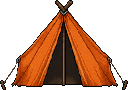
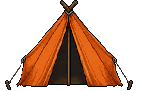
A calmer wall in three zones, a backdrop that changes as you climb, one prop style
Wall
- Rebuilt from much larger slabs of one natural-rock texture, pulled
  toward its average colour and dimmed, so climbers, rope, holds and
  bolts stand out instead of being lost in a busy boulder pattern.
- Three zones that meet slab by slab: warm mossy granite, bare pale
  granite, then cold dark rock with snow on its ledges.

Backdrop
- One tall painting replaces the fixed valley and treeline: forest and
  lake at base camp, the snowy range higher up, then a sea of clouds
  and a deep blue sky near the summit. The view pans up it as the team
  climbs.

Props and camp
- Crate, pot, lantern and rope coil repainted in the climbers' style.
- The tent is pitched and struck with a painted animation (a heap of
  canvas and poles rising into the tent) instead of popping in as
  rectangular pieces.
- Taller camp signs stand clear of the tent; the earth under the
  meadow fades to dark instead of a flat slab.

Pixel sizes
- The map shows at a whole number of device pixels where one fits, and
  its backdrop is the painting at whole pixels, dimmed, not a blur.
- The title painting and its animation layers are sized the same way.
- The question panel's picture is the mountain being climbed, cut from
  the map.

Claude-Session: https://claude.ai/code/session_018rpfmEX5HfmNYP77j3hC6K

Changed region(s): [[0.0, 0.0, 1.0, 1.0]]

diff --git a/js/scene.js b/js/scene.js
@@ -146,25 +146,31 @@ function drawCloud(g,x,y,s,seed){
 
 /* ---------- generated art (PixelLab): the valley backdrop, a near treeline and two granite textures ----------
    Each loads in the background; until it has, the painted version above (and the painted rock below) stands in. */
-const ART={},CLOUD_N=3;
+const ART={},CLOUD_N=3,TENT_UP=9;
 (function loadArt(){
   const pixels=im=>{const [,g]=mk(im.width,im.height);g.drawImage(im,0,0);return {w:im.width,h:im.height,d:g.getImageData(0,0,im.width,im.height).data};},
     rgb=(p,x,y)=>{const i=(y*p.w+x)*4;return `rgb(${p.d[i]},${p.d[i+1]},${p.d[i+2]})`;},
     load=(src,fn)=>{const im=new Image();im.onload=()=>fn(im);im.src=src;};
-  load(asset("assets/valley.png"),im=>{ART.sky=rgb(pixels(im),im.width>>1,0);ART.valley=im;});
-  load(asset("assets/pines.png"),im=>{ART.pineBase=rgb(pixels(im),im.width>>1,im.height-1);ART.pines=im;});
+  load(asset("assets/valley.png"),im=>{const p=pixels(im);ART.sky=rgb(p,im.width>>1,0);ART.valleyFoot=rgb(p,4,im.height-1);ART.valley=im;});
   // high on the mountain the same art turns wintry: moss and grass (green-dominant pixels) become snow by brightness,
   // and the rock is cooled halfway to a blue-grey of its own brightness
   const wintry=d=>{for(let i=0;i<d.length;i+=4){if(!d[i+3])continue;const r=d[i],gr=d[i+1],b=d[i+2],l=r*.3+gr*.59+b*.11;
     if(gr>r+8&&gr>b+8){const s=l>110?[242,245,247]:l>70?[191,210,230]:[142,170,204];d[i]=s[0];d[i+1]=s[1];d[i+2]=s[2];}
     else{d[i]=R0(lerp(r,l*.86,.5));d[i+1]=R0(lerp(gr,l*.94,.5));d[i+2]=Math.min(255,R0(lerp(b,l*1.12,.5)));}}};
-  // one granite texture for the whole wall: mossy low down, its wintry copy high up; rock chunks painted before it
-  // arrived repaint with it
-  // three granite textures (from one generation, so they match), each with its wintry copy; the wall is painted
-  // once all three are in, and chunks painted before that repaint with them
-  ART.rocks=[];let rockLeft=3;
-  ["cliff-low","cliff-b","cliff-c"].forEach((n,i)=>load(asset(`assets/${n}.png`),im=>{const hi=pixels(im);wintry(hi.d);ART.rocks[i]={lo:pixels(im),hi};
-    if(!--rockLeft){ART.rockLo=ART.rocks[0].lo;ART.rockHi=ART.rocks[0].hi;FX.chunks.clear();}}));
+  // the wall's three kinds of rock, bottom to top, all from one painted texture so they share their shapes: warm
+  // mossy granite as painted; bare pale granite (the same, greyed and lightened, its moss gone to lichen); and its
+  // wintry copy, cold and dark with snow where the moss was. Each carries its average colour, which the wall is
+  // pulled toward a little so the climbers stand out against it
+  load(asset("assets/rock-low.png"),im=>{const lo=pixels(im),mid=pixels(im),hi=pixels(im);
+    for(let i=0,d=mid.d;i<d.length;i+=4){const r=d[i],g=d[i+1],b=d[i+2],l=r*.3+g*.59+b*.11,moss=g>r+6&&g>b+6,v=moss?l*.9+50:l*.92+38;
+      d[i]=Math.min(255,v*1.02);d[i+1]=Math.min(255,v);d[i+2]=Math.min(255,v*.95);}
+    wintry(hi.d);
+    {const d=hi.d,W=hi.w,H=hi.h,src=lo.d,L=k=>src[k]*.3+src[k+1]*.59+src[k+2]*.11;
+      for(let y=2;y<H-3;y++)for(let x=0;x<W;x++){const k=(y*W+x)*4;
+        if(L(k)>95&&L(k-W*4)<62){const n=2+((x*7+y*3)%3);for(let j=0;j<n;j++){const q=k+j*W*4;if(L(q)<62)break;
+          const c=j<n-1?[242,245,247]:[191,210,230];d[q]=c[0];d[q+1]=c[1];d[q+2]=c[2];}}}}
+    for(const p of [lo,mid,hi]){let r=0,g=0,b=0;const N=p.w*p.h;for(let k=0;k<N*4;k+=4){r+=p.d[k];g+=p.d[k+1];b+=p.d[k+2];}p.mean=[r/N,g/N,b/N];}
+    ART.zones=[lo,mid,hi];ART.rockLo=lo;FX.chunks.clear();});
   // the walkable surface of a platform image: the first opaque row down its middle
   const surface=p=>{const x=p.w>>1;for(let y=0;y<p.h;y++)if(p.d[(y*p.w+x)*4+3]>40)return y;return 0;};
   // camp ledges: Camp I as drawn; Camp II with its grass and moss turned to snow and its rock cooled to blue-grey
@@ -184,6 +190,9 @@ const ART={},CLOUD_N=3;
     const canvasOf=()=>{const [c,g]=mk(p.w,p.h),id=g.createImageData(p.w,p.h);id.data.set(d);g.putImageData(id,0,0);return c;};
     ART.ledge=canvasOf();wintry(d);ART.ledgeSnow=canvasOf();FX.camps={};});
   load(asset("assets/tent.png"),im=>{ART.tent=im;FX.camps={};FX.base=null;});
+  // the tent going up: eight frames from a flat heap of canvas and poles to (the ninth) the pitched tent above,
+  // all on the pitched tent's own canvas
+  {const fr=[];let left=TENT_UP-1;for(let n=0;n<TENT_UP-1;n++)load(asset(`assets/tent/${n}.png`),im=>{fr[n]=im;if(!--left)ART.tentUp=fr;});}
   // two tall trees (a broad old spruce and a slender pine), well over twice a climber's height
   ART.trees=[];["tree-a","tree-b"].forEach((n,t)=>load(asset(`assets/${n}.png`),im=>{ART.trees[t]=im;FX.base=null;}));
   // camp props: a coil of rope, a cooking pot, a lantern and a supply crate
@@ -198,17 +207,17 @@ const ART={},CLOUD_N=3;
   load(asset("assets/ground.png"),im=>{const p=pixels(im);ART.groundTop=surface(p);let y=p.h-1;
     const full=y=>{for(let x=0;x<p.w;x++)if(p.d[(y*p.w+x)*4+3]<250)return false;return true;};
     while(y>ART.groundTop&&!full(y))y--;ART.ground=im;ART.soilAt=y;ART.soil=rgb(p,p.w>>1,y);FX.base=null;});})();
-const valleyY=(h,climb)=>R0(h-ART.valley.height+climb*.05);
+// the backdrop is one tall painting: the valley at the bottom, a sea of clouds above it and the high sky above that.
+// At base camp its foot stands just under the meadow, in the open part of the screen; as the team climbs the view
+// pans up it, through the clouds, so that at the summit its top is at the top of the screen
+function valleyY(h,climb){const A=FX.area,ab=A?R0((A.y+A.h)/FX.px):h,V=ART.valley.height,foot=ab-30,span=-TOPY+80;
+  return R0(Math.min(0,foot-V+clamp(climb,0,span)/span*(V-foot)));}
 // the backdrop sinks slowly as the team climbs, with its own sky colour above it and mirrored copies either side
 // when the view is wider than the picture; the lake sits in the open air left of the cliff
 function drawValley(g,w,h,climb){const V=ART.valley,y=valleyY(h,climb),x0=R0(FX.ox-V.width*.6);
-  rect(g,0,0,w,Math.max(0,y),ART.sky);
+  rect(g,0,0,w,Math.max(0,y),ART.sky);if(y+V.height<h)rect(g,0,y+V.height,w,h-y-V.height,ART.valleyFoot);
   for(let k=-2;k<=2;k++){const x=x0+k*V.width;if(x>=w||x+V.width<=0)continue;
     if(k&1){g.save();g.translate(x+V.width,y);g.scale(-1,1);g.drawImage(V,0,0);g.restore();}else g.drawImage(V,x,y);}}
-// the near treeline, sinking faster, solid forest below it
-function drawPines(g,w,h,climb){const P=ART.pines,y=R0(h*.9-P.height*.6+climb*.17);if(y>=h)return;
-  for(let x=FX.ox%P.width-P.width;x<w;x+=P.width)g.drawImage(P,x,y);
-  rect(g,0,y+P.height,w,h-y-P.height,ART.pineBase);}
 // a texture pixel, the texture mirrored at every edge so neighbouring tiles always meet; its outermost pixel ring
 // (a flat border line on some generated images) is left out, so a mirror never doubles it into a stripe
 function texAt(T,x,y){const m=(v,n)=>{n-=2;v=(v%(2*n)+2*n)%(2*n);return 1+(v<n?v:2*n-1-v);},i=(m(y,T.h)*T.w+m(x,T.w))*4;return [T.d[i],T.d[i+1],T.d[i+2]];}
@@ -250,26 +259,24 @@ function rockAt(wx,wy){
   if(top&&!snowy&&e<4.5+hash(wx,id)*2.5&&hash(id,5)<.5-u*.6)c=e<2.4?C.mossL:e<3.6?(hash(wx,1)<.3?C.mossH:C.mossL):hash(wx,wy)<.5?C.moss:C.mossD;
   if(top&&snowy&&e<4+hash(wx,id)*3)c=e<3?C.snow:C.snowS;
   return c;}
-// The granite wall as irregular cells (a jittered grid, Voronoi-style): each cell shows a patch of one of the three
-// textures, picked, offset and maybe flipped by the cell's own hash, centred on the texture so it never reaches a
-// texture edge; a thin dark crack runs along the borders between cells, so they read as fractures in the rock.
-// (No mirroring and no straight seams, so the wall has no repeating symmetric shapes.) High up the wintry copies
-// are used, with a ragged seam between the zones.
-const RC_W=46,RC_H=38;
+// The wall as big irregular slabs (a jittered grid, Voronoi-style): each slab is one kind of rock, by its height on
+// the mountain (with a little luck, so the zones meet slab by slab and not along a line), and shows a patch of that
+// rock's texture, offset and maybe flipped by the slab's own hash. A soft dark crack runs between slabs. The colours
+// are pulled a little toward the rock's average and dimmed, so the wall sits back behind the climbers and the rope.
+const RC_W=96,RC_H=78,ZONE_MID=.36,ZONE_HIGH=.7;
+const zoneOf=(u,id)=>{const z=u+(hash(id,9)-.5)*.14;return z<ZONE_MID?0:z<ZONE_HIGH?1:2;};
 function rockCell(wx,wy){
   const gx=Math.floor(wx/RC_W),gy=Math.floor(wy/RC_H);let d1=1e9,d2=1e9,sx=0,sy=0,id=0;
   for(let j=-1;j<=1;j++)for(let i=-1;i<=1;i++){const cx=gx+i,cy=gy+j,
     px=(cx+.2+hash(cx,cy*7+3)*.6)*RC_W,py=(cy+.2+hash(cx*5,cy+11)*.6)*RC_H,dx=wx-px,dy=(wy-py)*1.1,d=Math.hypot(dx,dy);
     if(d<d1){d2=d1;d1=d;sx=px;sy=py;id=cx*7919+cy*104729;}else if(d<d2)d2=d;}
-  const R=ART.rocks[Math.floor(hash(id,1)*ART.rocks.length)],T=uOf(wy)>.6+(hash(wx>>2,wy>>2)-.5)*.06?R.hi:R.lo;
-  const fx=hash(id,2)<.5?-1:1,ox=R0((hash(id,3)-.5)*28),oy=R0((hash(id,4)-.5)*28);
+  const T=ART.zones[zoneOf(uOf(sy),id)],fx=hash(id,2)<.5?-1:1,ox=R0((hash(id,3)-.5)*90),oy=R0((hash(id,4)-.5)*90);
   const tx=clamp(R0((wx-sx)*fx+T.w/2+ox),1,T.w-2),ty=clamp(R0(wy-sy+T.h/2+oy),1,T.h-2),i=(ty*T.w+tx)*4;
-  let c=[T.d[i],T.d[i+1],T.d[i+2]];
-  const e=d2-d1;if(e<1.2)c=c.map(k=>k*.28|0);else if(e<2.4)c=c.map(k=>k*.62|0);
-  return c;}
+  const e=d2-d1,k=e<1.3?.5:e<2.6?.8:1,m=T.mean;
+  return [(T.d[i]*.74+m[0]*.26)*.9*k|0,(T.d[i+1]*.74+m[1]*.26)*.9*k|0,(T.d[i+2]*.74+m[2]*.26)*.92*k|0];}
 function paintChunk(ci){
   const yTop=-(ci+1)*CHK,w=FX.wallW,[c,g]=mk(w+40,CHK);if(yTop+CHK<TOPY-40)return c;
-  const id=g.createImageData(w+40,CHK),d=id.data,cache={},tex=ART.rockLo&&ART.rocks.length===3;
+  const id=g.createImageData(w+40,CHK),d=id.data,cache={},tex=ART.rockLo&&ART.zones;
   const hex=h=>cache[h]||(cache[h]=[parseInt(h.slice(1,3),16),parseInt(h.slice(3,5),16),parseInt(h.slice(5,7),16)]);
   for(let py=0;py<CHK;py++){const wy=yTop+py,L=rockEdge(wy);if(wy>0)continue;
     for(let px=0;px<w+40;px++){const wx=px-40;let col=null,v=null;
@@ -376,7 +383,7 @@ function loadClimber(L){const who=CLIMBER_ART[L.name],A=L.art={clips:{},ready:0}
   extra("look",STAND_N,a=>extra("drink",STAND_N,b=>extra("land",LAND_N,c=>{A.clips.idle.push(...a,...b,...c);A.stand=1;})));}
 loadClimber(LOOK.me);loadClimber(LOOK.mate);
 // all of the climb's pictures are in (until then the scene draws simple stand-ins; the loading screen waits for this)
-const artReady=()=>!!(ART.valley&&ART.pines&&ART.rockLo&&ART.ledge&&ART.tent&&ART.trees[0]&&ART.trees[1]&&ART.ground&&LOOK.me.art.ready&&LOOK.mate.art.ready);
+const artReady=()=>!!(ART.valley&&ART.rockLo&&ART.ledge&&ART.tent&&ART.trees[0]&&ART.trees[1]&&ART.ground&&LOOK.me.art.ready&&LOOK.mate.art.ready);
 function ik(rx,ry,tx,ty,a,b,bend){let dx=tx-rx,dy=ty-ry,d=Math.hypot(dx,dy)||1e-4;const m=a+b-.01;if(d>m){tx=rx+dx/d*m;ty=ry+dy/d*m;d=m;}
   const ang=Math.atan2(ty-ry,tx-rx),j=ang+bend*Math.acos(clamp((a*a+d*d-b*b)/(2*a*d),-1,1));return [rx+Math.cos(j)*a,ry+Math.sin(j)*a,tx,ty];}
 // sprite box and the hips' place in it; HANG is where the near hand sits (from the hips) when hanging on a hold
@@ -762,7 +769,7 @@ function campLayer(k,cy){if(FX.camps[k])return FX.camps[k];
   // the ledge waits empty but for its sign: the team pitches its own camp when it gets here
   // (the sign stands at the ledge's far end, before where the tent will go)
   const sx=ART.ledge&&ART.ledgeWalk?ledgeL()+ART.ledgeWalk[0]+6:-122;
-  drawSign(g,signpost(k==="c1"?"CAMP I":"CAMP II",26,{snow}),X(sx),Y(cy));
+  drawSign(g,signpost(k==="c1"?"CAMP I":"CAMP II",46,{snow}),X(sx),Y(cy));
   return FX.camps[k]={c,x0,y0};}
 // where things go on a camp ledge, from the ledge's walkable span: the tent at the outer end, where each climber
 // kneels to work (one at each of its corners) and the tent's door
@@ -771,21 +778,10 @@ function campSpots(){const L=ART.ledge,T=ART.tent;
   // (the tent faces out of the screen, so its door is in the middle; one climber pegs out each corner)
   const tentL=walk0+22,tentR=tentL+tw;
   return {tentX:tentL-tb.x0,tentR,meWork:tentL+18,mateWork:tentR-18,door:tentL+(tw>>1)};}
-// The tent appears the cartoon way: in five pieces (bottom left and right, middle left and right, then the top with
-// its poles), each popping in with a dust poof and a little drop-and-settle. Packing up pops them away again.
-const BOUNCE=.22;
-// how far a piece that appeared at time `at` still sits above where it lands (it drops in and settles)
-const dropOf=at=>{const e=clamp((FX.time-at)/BOUNCE,0,1);return -R0(7*(1-e)*(1-e));};
-// the tent's pieces as [x0,x1,y0,y1) boxes in its image, in the order they appear
-function tentPieces(){const b=boxOf(ART.tent),h=b.y1+1-b.y0,cx=(b.x0+b.x1+1)>>1,m1=b.y0+R0(h/3),m2=b.y0+R0(h*2/3),r=b.x1+1,f=b.y1+1;
-  return [[b.x0,cx,m2,f],[cx,r,m2,f],[b.x0,cx,m1,m2],[cx,r,m1,m2],[b.x0,r,b.y0,m1]];}
-// the tent with its first n pieces in place (n=5: the whole tent)
-function drawTentRise(g,x,y,n,at){if(n<=0)return;if(!ART.tent){if(n>=5)drawTent(g,x,y);return;}
-  const T=ART.tent,b=boxOf(T),top=y-(b.y1+1);
-  if(n>=5&&(!at||FX.time-at[4]>BOUNCE)){g.drawImage(T,x,top);return;}
-  tentPieces().slice(0,n).forEach(([x0,x1,y0,y1],i)=>{const d=at?dropOf(at[i]):0;g.drawImage(T,x0,y0,x1-x0,y1-y0,x+x0,top+y0+d,x1-x0,y1-y0);});}
-// the world box of tent piece i (for its poof), from the tent's left x and the ground y
-function tentPieceAt(i,x,y){const [x0,x1,y0,y1]=tentPieces()[i],top=y-(boxOf(ART.tent).y1+1);return {x:x+((x0+x1)>>1),y:top+y1,w:x1-x0};}
+// the tent at stage n of going up: 0 nothing, 1 the canvas and poles in a heap, and so on up to TENT_UP, pitched
+function drawTentRise(g,x,y,n){if(n<=0)return;const T=ART.tent;
+  if(n>=TENT_UP||!T||!ART.tentUp){if(n>=TENT_UP)drawTent(g,x,y);return;}
+  g.drawImage(ART.tentUp[n-1],x,y-(boxOf(T).y1+1));}
 // dust poofs: the generated cloud bursting and fading over about half a second, its foot at (x,y); until it loads,
 // three cream puffs shrinking away
 function poof(x,y,big){FX.poofs.push({x,y,t0:FX.time,big});sfx("pop");}
@@ -795,9 +791,9 @@ function drawPoofs(g,ox,oy){FX.poofs=FX.poofs.filter(p=>FX.time-p.t0<.5);
     else for(const [dx,r] of [[-7,5],[0,7],[7,5]])pdisc(g,R0(p.x+dx*(1+k))+ox,R0(p.y-6-k*6)+oy,Math.max(1,R0(r*(1-k))),C.cloud);}}
 function drawCamp(g,k,cy,t,ox,oy){const L=campLayer(k,cy);g.drawImage(L.c,L.x0+ox,L.y0+oy);
   const C2=FX.camp;if(!C2||C2.k!==k)return;const S=campSpots();
-  drawTentRise(g,S.tentX+ox,cy+oy,C2.tent,C2.tentAt);
+  drawTentRise(g,S.tentX+ox,cy+oy,C2.tent);
   // once the tent is up, in front of it: the cooking pot, a lantern at the door and the rope, coiled
-  if(C2.tent>=5){prop(g,"pot",S.tentR+4+ox,cy+1+oy);prop(g,"lantern",S.door-18+ox,cy+1+oy);prop(g,"coil",S.tentR-18+ox,cy+1+oy);}
+  if(C2.tent>=TENT_UP){prop(g,"pot",S.tentR+4+ox,cy+1+oy);prop(g,"lantern",S.door-18+ox,cy+1+oy);prop(g,"coil",S.tentR-18+ox,cy+1+oy);}
 }
 // a camp prop standing on the ground at y, its left edge at x
 function prop(g,n,x,y){const im=ART.props&&ART.props[n];if(im)g.drawImage(im,R0(x),R0(y)-im.height);}
@@ -810,11 +806,15 @@ function baseLayer(){const ox=FX.ox,w=FX.vw;if(FX.base&&FX.base.ox===ox&&FX.base
   const x0=-ox-8,x1=w-ox+8,y0=-215,y1=120,[c,g]=mk(x1-x0,y1-y0),X=x=>x-x0,Y=y=>y-y0;
   // distant pines first, then the meadow, then the big pines in front of the cliff foot
   // (once the generated pine is in, the generated treeline behind stands in for these painted ones)
-  if(!ART.pines)for(let x=x0;x<-30;x+=9+(hash(x,1)*8|0)){const h=22+(hash(x,2)*26|0),s=pineSprite(h,x*7,{l:C.pineL,m:C.pine,d:C.pineD,h:C.pineH});g.drawImage(s,X(x)-(s.width>>1),Y(2-h));}
+  if(!ART.trees[0])for(let x=x0;x<-30;x+=9+(hash(x,1)*8|0)){const h=22+(hash(x,2)*26|0),s=pineSprite(h,x*7,{l:C.pineL,m:C.pine,d:C.pineD,h:C.pineH});g.drawImage(s,X(x)-(s.width>>1),Y(2-h));}
   // the generated meadow strip, its grass rising a few pixels above the ground line, soil below it
   if(ART.ground){const G=ART.ground,gy=-6-ART.groundTop;
     rect(g,0,Y(gy+ART.soilAt),x1-x0,y1-gy-ART.soilAt,ART.soil);
-    for(let x=x0-((x0%G.width)+G.width)%G.width;x<x1;x+=G.width)g.drawImage(G,X(x),Y(gy));}
+    for(let x=x0-((x0%G.width)+G.width)%G.width;x<x1;x+=G.width){g.drawImage(G,X(x),Y(gy));
+    }
+    // (below the strip the earth just darkens, in a few dithered steps, down into the dark)
+    for(let k=0;k<5;k++){const yy=Y(gy+ART.soilAt+6+k*9);g.fillStyle=`rgba(6,5,9,${(.22+k*.17).toFixed(2)})`;g.fillRect(0,yy,x1-x0,y1);
+      for(let x=(k&1)*2;x<x1-x0;x+=4)g.fillRect(x,yy-2,2,2);}}
   else for(let x=x0;x<x1;x++){const top=hash(x>>1,3)<.3?-1:0;
     for(let y=top;y<y1;y++){let col=y<=0?C.grassL:y<4?C.grass:y<7?(hash(x,y)<.5?C.grass:C.dirt):y<40?(hash(x,y)<.08?C.dirtD:C.dirt):C.dirtD;
       if(y>=1&&y<4&&hash(x*3,y)<.12)col=C.mossH;dot(g,X(x),Y(y),col);}
@@ -852,7 +852,7 @@ function drawHook(g,ox,oy){if(FX.hookIx==null||!FX.exp)return;const [bx,by]=bolt
 // mountain, with a dab of chalk once a hand has been on it
 function holds(g,ox,oy,vy0,vy1){if(!FX.exp||FX.mode!=="game"||!FX.A)return;const ch=FX.exp.choice,used=Math.max(FX.A.me.hi,FX.A.mate.hi);
   for(let i=Math.max(1,Math.floor(-vy1/HS)-1);i<=Math.min(IDX_TOP-1,Math.ceil(-vy0/HS)+1);i++){if(i===IDX_C1||i===IDX_C2)continue;
-    const [hx,hy]=holdXY(ch,i),x=hx+ox,y=hy+oy,snowy=uOf(hy)>.62,w=4+(hash(i,41)*3|0);
+    const [hx,hy]=holdXY(ch,i),x=hx+ox,y=hy+oy,snowy=uOf(hy)>ZONE_HIGH,w=4+(hash(i,41)*3|0);
     rect(g,x-1,y+2,w+2,2,"#241a14");rect(g,x,y,w,2,snowy?C.snowS:"#b39c7c");rect(g,x,y,w-1,1,snowy?C.snow:"#e0cfae");
     if(i<=used){dot(g,x+1,y,"#ffffff");dot(g,x+2,y+1,"#f4f1e8");}}}
 function hardware(g,ox,oy,vy0,vy1){if(!FX.exp||FX.mode!=="game")return;const ch=FX.exp.choice,clipped=FX.clips||[];
@@ -966,15 +966,14 @@ function paint(t){
   // screen = world + (ox, oy): every offset is a whole pixel, so nothing ever shimmers
   const oyF=c.my-c.y,ox=FX.ox+shk(),oy=R0(oyF)+shk(),vy0=-oy,vy1=h-oy,u=uOf(c.y);
   // the valley sinks as the team climbs: each layer by its own share of the camera's height
-  const climb=-c.y,art=ART.valley&&ART.pines;
+  const climb=-c.y,art=ART.valley;
   if(art)drawValley(g,w,h,climb);else drawSky(g,w,h,u);
   // drifting clouds stay in the open sky (over the backdrop, only above its peaks)
-  const cloudMax=art?valleyY(h,climb)+60:h*.7;
+  const cloudMax=h*.7;
   for(let k=0;k<6;k++){const cx=R0(((hash(k,1)*w*1.6+t*(1.2+hash(k,3)*1.5))%(w*1.6))-w*.3),cy=R0(h*(.08+hash(k,4)*.3)+climb*.03);
     if(cy<cloudMax)drawCloud(g,cx,cy,.8+hash(k,2)*.6,k);}
   for(const b of FX.birds)for(let i=0;i<b.n;i++)g.drawImage(sprites().bird[Math.floor(b.t*7+i*1.3)%4],R0(b.x-i*13),R0(b.y*h+(i%2?5:-2)*i+Math.sin(b.t*1.4+i)*2));
-  if(art)drawPines(g,w,h,climb);
-  else for(const L of FX.layers){const y=R0(climb*L.par);if(y<h)g.drawImage(L.c,0,y);}
+  if(!art)for(const L of FX.layers){const y=R0(climb*L.par);if(y<h)g.drawImage(L.c,0,y);}
   if(vy1>-215){const B=baseLayer();g.drawImage(B.c,B.x0+ox,B.y0+oy);}
   const [c1,c2]=chunkRange(vy0,vy1);for(let ci=c1;ci<=c2;ci++)g.drawImage(chunk(ci),-40+ox,-(ci+1)*CHK+oy);
   if(vy1>-215)drawFrontPines(g,ox,oy);
@@ -1005,7 +1004,7 @@ function drawNight(g,w,h,t,ox,oy){const n=FX.night,cp=FX.camp;
   // it would show it through them)
   if(cp.tent>0&&cp.sleep){g.globalAlpha=.55*n;drawTentRise(g,S.tentX+ox,cy+oy,cp.tent);g.globalAlpha=1;}
   // (the lantern at the tent door burns through the night)
-  if(cp.tent>=5&&ART.props&&ART.props.lantern){const lx=S.door-12+ox,ly=cy-9+oy;
+  if(cp.tent>=TENT_UP&&ART.props&&ART.props.lantern){const lx=S.door-12+ox,ly=cy-9+oy;
     for(const [r,a] of [[13,.10],[8,.16],[4,.22]]){g.globalAlpha=a*n;pdisc(g,lx,ly,r,"#ffd27a");}g.globalAlpha=1;prop(g,"lantern",S.door-18+ox,cy+1+oy);}}
 
 /* ---------- overlays: pixel title cards, captions and confetti ---------- */
@@ -1032,12 +1031,12 @@ const campOf=ix=>ix===IDX_C1?"c1":ix===IDX_C2?"c2":null;
 // corner, so neither walks through the other) and pitch it; dusk falls, and they walk to the door and turn in
 async function makeCamp(ix,ch="main"){const k=campOf(ix);if(!k)return true;const A=FX.A,S=campSpots(),cy=-ix*HS;
   const [me,mate]=A.me.N.x<=A.mate.N.x?[A.me,A.mate]:[A.mate,A.me]; // (one at each corner of the tent)
-  FX.camp={k,ix,cy,tent:0,tentAt:[],sleep:false};FX.leaving=null;const cp=FX.camp;
+  FX.camp={k,ix,cy,tent:0,sleep:false};FX.leaving=null;const cp=FX.camp;
   const walk=Math.max(me.walkTo(S.meWork),mate.walkTo(S.mateWork));if(!(await wait(walk+150,ch)))return false;
   me.work(1);mate.work(-1);
-  // the tent goes up piece by piece, each popping in with a poof
-  const pieceIn=i=>{cp.tent=i+1;cp.tentAt[i]=FX.time;if(ART.tent){const p=tentPieceAt(i,S.tentX,cy);poof(p.x,p.y);}};
-  for(const [ms,a] of [[300,0],[500,1],[500,2],[450,3],[600,4]]){if(!(await wait(ms,ch)))return false;pieceIn(a);}
+  // the canvas and poles are thrown down in a puff of dust, and the tent rises between the two of them
+  if(!(await wait(350,ch)))return false;poof(S.door,cy,true);
+  for(let n=1;n<=TENT_UP;n++){cp.tent=n;if(n===TENT_UP)sfx("thud");if(!(await wait(n===1?420:230,ch)))return false;}
   if(!(await wait(700,ch)))return false;
   me.standAt(me.N.x,cy);mate.standAt(mate.N.x,cy);if(!(await wait(500,ch)))return false;
   if(!(await play(2400,p=>{FX.night=smooth(p);},ch)))return false;
@@ -1051,10 +1050,10 @@ function leaveCamp(ch="main"){if(!FX.camp)return Promise.resolve(true);if(FX.lea
     me.hidden=mate.hidden=false;cp.sleep=false;me.standAt(S.door+8,cp.cy);mate.standAt(S.door,cp.cy);me.hi=mate.hi=ix;
     if(!(await play(1800,p=>{FX.night=1-smooth(p);},ch)))return false;
     const w=mate.walkTo(S.meWork);if(!(await wait(w+100,ch)))return false;
-    // the tent pops away piece by piece, top first
-    mate.work(1);cp.tentAt=null;
-    const pieceOut=i=>{cp.tent=i;if(ART.tent){const p=tentPieceAt(i,S.tentX,cp.cy);poof(p.x,p.y);}};
-    for(const [ms,a] of [[350,4],[300,3],[300,2],[300,1],[300,0]]){if(!(await wait(ms,ch)))return false;pieceOut(a);}
+    // the tent comes down the way it went up, and its heap is packed away in a puff of dust
+    mate.work(1);
+    for(let n=TENT_UP-1;n>=1;n--){if(!(await wait(n===TENT_UP-1?350:190,ch)))return false;cp.tent=n;}
+    if(!(await wait(350,ch)))return false;cp.tent=0;poof(S.door,cp.cy,true);if(!(await wait(300,ch)))return false;
     mate.standAt(mate.N.x,cp.cy);const w3=Math.max(me.walkTo(me.rest(ix).x),mate.walkTo(mate.rest(ix).x));
     if(!(await wait(w3+100,ch)))return false;
     me.standAt(me.rest(ix).x,cp.cy);mate.standAt(mate.rest(ix).x,cp.cy);FX.camp=null;FX.night=0;return true;})();}
@@ -1172,7 +1171,7 @@ async function runDemo(){ // lobby: a rope team climbs the whole cliff on a loop
 // (opened or reloaded while the team is at a camp: the camp is already up and they are asleep in it)
 function snap(exp,t){FX.ch.main++;const A=FX.A,ix=idxOf(exp,exp.pitch);placeTeam(exp,ix);
   A.me.gear=exp.rope;if(t.round.phase==="summit"){A.me.cheer=2;A.mate.cheer=2;}
-  else if(campOf(ix)){FX.camp={k:campOf(ix),ix,cy:-ix*HS,tent:5,sleep:true};FX.night=1;A.me.hidden=A.mate.hidden=true;}
+  else if(campOf(ix)){FX.camp={k:campOf(ix),ix,cy:-ix*HS,tent:TENT_UP,sleep:true};FX.night=1;A.me.hidden=A.mate.hidden=true;}
   FX.cam=null;}
 
 function drawTopo(t){

diff --git a/js/game.js b/js/game.js
@@ -561,14 +561,11 @@ function renderHud(t){
 // seconds left on a question's clock: more than its length during the count before it starts, below zero once it's over
 function remaining(r){return (r.startedAt+r.dur*1000-now())/1000;}
 const clock=rem=>{const s=Math.max(0,Math.ceil(rem));return `${Math.floor(s/60)}:${String(s%60).padStart(2,"0")}`;};
-// the question panel's picture: the lumberjack on a scrap of the mountain's granite, painted once the art is in
-let PITCH_ART=null;
-function pitchArt(){if(PITCH_ART)return PITCH_ART;const R=ART.rocks&&ART.rocks[0],A=LOOK.me.art;if(!R||!A||!A.ready)return asset("assets/emblem.png");
-  const [c,g]=mk(72,56);C.sky.forEach((col,i)=>rect(g,0,R0(i*56/C.sky.length),72,56,col));
-  const id=g.getImageData(0,0,72,56),d=id.data,T=R.lo;
-  for(let y=0;y<56;y++)for(let x=0;x<72;x++){if(x<44+((hash(y>>2,9)*5)|0))continue;const i=(y*72+x)*4,j=(((y+30)%T.h)*T.w+(x%T.w))*4;d[i]=T.d[j];d[i+1]=T.d[j+1];d[i+2]=T.d[j+2];d[i+3]=255;}
-  g.putImageData(id,0,0);const fr=A.clips.climb[2],b=boxOf(fr),w=b.x1-b.x0+1;g.drawImage(fr,b.x0,b.y0,w,54,48-w,3,w,54);
-  return PITCH_ART=c.toDataURL();}
+// the question panel's picture: the mountain being climbed, cut from the map at its own pixel size (the camp while
+// the team is still choosing)
+function panelArt(t){const m=t.exp.m&&MOUNTAINS[t.exp.m],[cx,cy]=m?[m.map[0],m.map[1]+26]:MAP_CAMP;
+  const x=Math.max(0,Math.min(MAP_W-112,cx-56)),y=Math.max(0,Math.min(MAP_W-88,cy-44));
+  return `<div class="qart"><i style="background-image:url('${asset("assets/map.png")}');background-position:${-x}px ${-y}px"></i></div>`;}
 const tierMarks=k=>`<span class="tier" aria-label="difficulty ${k} of 4">${"▲".repeat(k)}<i>${"▲".repeat(4-k)}</i></span>`;
 // "Stage 2 · Pitch 3/5": where a pitch sits on the whole climb
 const pitchLabel=(e,p)=>{const so=stageOf(e,p);return `Stage ${so.s+1} · Pitch ${Math.min(so.i+1,so.n)}/${so.n}`;};
@@ -586,7 +583,7 @@ function renderPanel(t){
   // the result lands with a sound of its own
   if(r.phase==="reveal"&&S.sus!==r.id&&S.susDone===r.id&&S.stung!==r.id){S.stung=r.id;sfx(r.result?.correct?"right":"wrong");}
 }
-function frameQ(t,main){return `<div class="qwrap"><div class="qart"><img src="${pitchArt()}" alt=""></div><div class="qmain">${main}</div></div>`;}
+function frameQ(t,main){return `<div class="qwrap">${panelArt(t)}<div class="qmain">${main}</div></div>`;}
 function readyView(t){
   const solo=memberIds(t).length<2;
   const m=MT(t.exp);
@@ -661,17 +658,19 @@ function renderWorld(t){const el=$("#world");if(!el)return;const r=t&&t.round,on
     const pin=k=>{const m=MOUNTAINS[k],tags=ids.filter(i=>votes[i]?.mtn===k).map(i=>`<em class="${i===S.uid?"me":""}">${ptag(t,i)}</em>`).join("");
       return `<button class="wpin d${m.diff} ${votes[S.uid]?.mtn===k?"sel":""}" data-mtn="${k}" style="left:${100*m.map[0]/MAP_W}%;top:${100*m.map[1]/MAP_W}%" aria-label="${esc(m.name)}, ${m.label}">
         <span class="wflag" aria-hidden="true"></span><span class="wplate"><b>${esc(m.name)}</b><small>${diffMarks(m.diff)}<span class="lbl"> ${m.label}</span>${pk[k]?ICON.flag:""}</small>${tags?`<span class="wtags">${tags}</span>`:""}</span></button>`;};
-    el.innerHTML=`<div class="wbox"><div class="wmap"><img src="${asset("assets/map.png")}" alt="A painted map of a mountain range: a green hill, a granite peak and an ice giant above a valley with a lake">
-      <span class="wcamp" style="left:${100*MAP_CAMP[0]/MAP_W}%;top:${100*MAP_CAMP[1]/MAP_W}%">Camp</span>${MOUNTAIN_ORDER.map(pin).join("")}</div></div>`;
+    el.innerHTML=`<div class="wbox"><div class="wview"><div class="wmap"><img src="${asset("assets/map.png")}" alt="A painted map of a mountain range: a green hill, a granite peak and an ice giant above a valley with a lake">
+      <span class="wcamp" style="left:${100*MAP_CAMP[0]/MAP_W}%;top:${100*MAP_CAMP[1]/MAP_W}%">Camp</span>${MOUNTAIN_ORDER.map(pin).join("")}</div></div></div>`;
     el.querySelectorAll(".wpin").forEach(b=>b.onclick=()=>pickMountain(b.dataset.mtn));}
   fitWorld();}
-// the map fills the space the bar and the question box leave, at a whole-pixel scale where it fits
-function fitWorld(){const el=$("#world"),box=el&&el.querySelector(".wbox"),map=el&&el.querySelector(".wmap");if(!map||el.hidden)return;
-  const W=innerWidth,H=innerHeight,m=$("#main").getBoundingClientRect(),bar=$("#bar").getBoundingClientRect().bottom;
-  const side=m.width<W*.7&&m.height>H*.7,x0=side?m.right:0,y0=bar+4,y1=side?H:m.top-4;
+// the whole map always shows, in the space the bar and the question box leave: at a whole number of device pixels
+// per map pixel where at least one fits (so its pixels stay even), and otherwise simply as large as fits
+function fitWorld(){const el=$("#world"),box=el&&el.querySelector(".wbox"),view=el&&el.querySelector(".wview"),map=el&&el.querySelector(".wmap");if(!map||el.hidden)return;
+  const W=innerWidth,H=innerHeight,m=$("#main").getBoundingClientRect(),bar=$("#bar").getBoundingClientRect().bottom,dpr=Math.max(1,window.devicePixelRatio||1);
+  const side=m.width<W*.7&&m.height>H*.7,x0=side?m.right:0,y0=bar+4,y1=side?H:m.top-4,avail=Math.max(120,Math.min(W-x0-20,y1-y0-16));
   Object.assign(box.style,{left:x0+"px",top:y0+"px",width:(W-x0)+"px",height:Math.max(80,y1-y0)+"px"});
-  const avail=Math.min(W-x0-20,y1-y0-16)/MAP_W,k=avail>=1?Math.floor(avail):Math.max(.4,Math.floor(avail*8)/8);
-  map.style.width=map.style.height=MAP_W*k+"px";map.classList.toggle("tight",k<.95);}
+  const n=Math.floor(avail/MAP_W*dpr),k=n>=1?n/dpr:avail/MAP_W,size=MAP_W*k;
+  Object.assign(view.style,{width:size+"px",height:size+"px"});Object.assign(map.style,{width:size+"px",height:size+"px",left:0,top:0});
+  map.classList.toggle("tight",k<.95);el.style.setProperty("--bg",MAP_W*Math.ceil(Math.max(W,H)/MAP_W)+"px");}
 addEventListener("resize",()=>fitWorld());
 // at camp: two rows of cards, the route on and the bonus gear; each climber's picks are shown under the cards
 function campView(t){

diff --git a/css/style.css b/css/style.css
@@ -211,7 +211,7 @@ input:focus{border-color:var(--gold);outline:none}
 body:has(#main.game2) .hud{left:var(--edge)}
 .qpanel{padding:12px}
 .qwrap{display:grid;grid-template-columns:112px minmax(0,1fr);gap:14px;align-items:start}
-.qart img{width:112px;height:88px;image-rendering:pixelated;border:2px solid var(--line);display:block;background:#4479c6}
+.qart i{display:block;width:112px;height:88px;image-rendering:pixelated;border:2px solid var(--line);background-color:#4479c6;background-repeat:no-repeat;box-sizing:content-box}
 .qmain{min-width:0;display:grid;gap:8px}
 /* a new step's parts ease in one after the other, in steps like everything else */
 @keyframes step-in{from{opacity:0;transform:translateY(6px)}}
@@ -315,11 +315,12 @@ body:has(#main.game2) .hud{left:var(--edge)}
 .world{position:fixed;inset:0;z-index:1;background:#0b1a26}
 /* (behind the framed map, the same painting fills the screen, dimmed, so the view never ends at a hard edge) */
 .world{overflow:hidden}
-.world::before{content:"";position:absolute;inset:-24px;background:var(--map) center/cover no-repeat;filter:blur(7px) brightness(.6) saturate(.9)}
-.world.in .wmap{animation:map-in .5s steps(6) both}
+.world::before{content:"";position:absolute;inset:0;background:var(--map) center/var(--bg,2048px) no-repeat;image-rendering:pixelated;filter:brightness(.42) saturate(.85)}
+.world.in .wview{animation:map-in .5s steps(6) both}
 @keyframes map-in{from{opacity:0;transform:translateY(14px) scale(.96)}}
 .wbox{position:absolute;display:grid;place-items:center}
-.wmap{position:relative;flex:none;border:2px solid var(--cream);box-shadow:var(--frame),0 0 0 6px rgba(2,11,18,.55)}
+.wview{position:relative;flex:none;border:2px solid var(--cream);box-shadow:var(--frame),0 0 0 6px rgba(2,11,18,.55);box-sizing:content-box}
+.wmap{position:absolute}
 .wmap>img{display:block;width:100%;height:100%;image-rendering:pixelated}
 /* a pin: a flag planted on the mountain, its name on a little plate under it */
 .wpin{position:absolute;transform:translate(-50%,-100%);display:grid;justify-items:center;gap:2px;background:none;border:0;padding:0;margin:0;cursor:pointer;color:inherit;z-index:1}
@@ -351,7 +352,7 @@ body:has(#main.game2) .hud{left:var(--edge)}
 /* (on a wide screen the radio keeps to its log and message box while the team chooses, so the map gets the room;
    its quick calls are for answers) */
 @media (min-width:900px) and (min-height:521px){body.atmap .radio2 .calls{display:none}body.atmap .radio2 .rlog{max-height:72px}}
-@media (prefers-reduced-motion:reduce){.wpin .wflag,.wpin.sel::after,.world.in .wmap{animation:none}}
+@media (prefers-reduced-motion:reduce){.wpin .wflag,.wpin.sel::after,.world.in .wview{animation:none}}
 @media (max-width:899px),(max-height:520px){
   .wpin .wplate{padding:4px 6px 3px}.wpin b{font-size:8px}.wpin small{font-size:10px}
   .wpin .wflag{width:14px;height:19px;background-size:10px 7px,2px 19px;background-position:2px 2px,0 0}

diff --git a/js/title.js b/js/title.js
@@ -119,8 +119,10 @@ const TFX=(()=>{
   const rnd=(a,b)=>a+Math.random()*(b-a);
   function layer(cls){const c=document.createElement("canvas");c.width=BG_W;c.height=BG_H;c.className="tfx "+cls;document.querySelector(".scene").appendChild(c);return c;}
   // lay both layers over the painting exactly as object-fit:cover places it
-  function place(){if(!light)return;const W=innerWidth,H=innerHeight,s=Math.max(W/BG_W,H/BG_H),w=BG_W*s,h=BG_H*s,x=(W-w)*BG_POS[0],y=(H-h)*BG_POS[1];
-    for(const c of [light,air])Object.assign(c.style,{left:x+"px",top:y+"px",width:w+"px",height:h+"px"});}
+  // (the painting covers the window at a whole number of device pixels per painted pixel, so its pixels stay even)
+  function place(){if(!light)return;const W=innerWidth,H=innerHeight,dpr=Math.max(1,window.devicePixelRatio||1),s=Math.ceil(Math.max(W/BG_W,H/BG_H)*dpr)/dpr,
+      w=BG_W*s,h=BG_H*s,x=Math.round((W-w)*BG_POS[0]*dpr)/dpr,y=Math.round((H-h)*BG_POS[1]*dpr)/dpr,bg=document.getElementById("menubg");
+    for(const c of [light,air,bg])if(c)Object.assign(c.style,{left:x+"px",top:y+"px",width:w+"px",height:h+"px",right:"auto",bottom:"auto"});}
   // read the painting once: where the night sky is (for stars) and how the firelight falls on the camp
   function survey(img){const c=document.createElement("canvas");c.width=BG_W;c.height=BG_H;const g=c.getContext("2d");g.drawImage(img,0,0);
     const d=g.getImageData(0,0,BG_W,BG_H).data,px=(x,y)=>{const i=(y*BG_W+x)*4;return [d[i],d[i+1],d[i+2]];};

diff --git a/index.html b/index.html
@@ -26,7 +26,7 @@
 window.V="v="+Math.floor(Date.now()/6e4);
 /* The art (everything under assets/) changes rarely and is most of the download, so it keeps one version, which
    browsers may hold on to: raise the number whenever a picture is changed or added. */
-window.AV="art=6";
+window.AV="art=7";
 document.write('<link rel="stylesheet" href="css/style.css?'+V+'">');
 </script>
 <style>
@@ -41,7 +41,7 @@ document.write('<link rel="stylesheet" href="css/style.css?'+V+'">');
 </style>
 </head>
 <body>
-<div id="boot" role="status" aria-label="Loading Pinnacle"><img src="assets/emblem.png?art=6" alt=""><i></i></div>
+<div id="boot" role="status" aria-label="Loading Pinnacle"><img src="assets/emblem.png?art=7" alt=""><i></i></div>
 <div class="scene" id="scene">
   <canvas id="topo" role="img" aria-label="A rope team climbing a granite cliff from base camp to the summit"></canvas>
   <div class="fx" id="fx" aria-hidden="true"></div>
